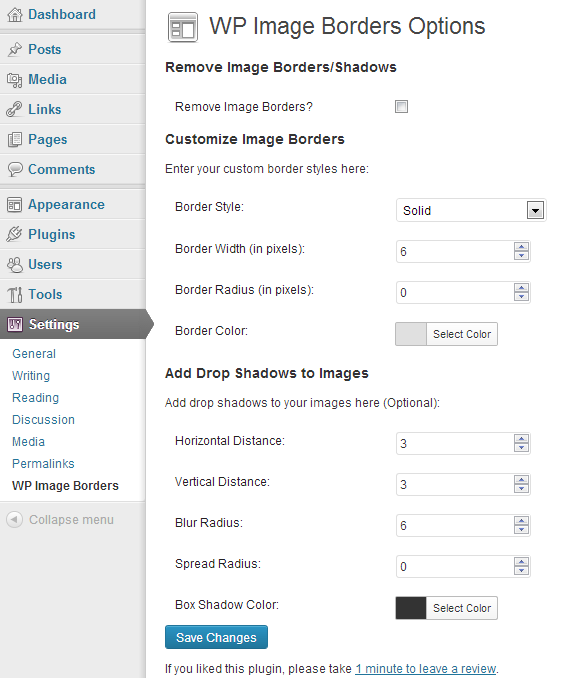
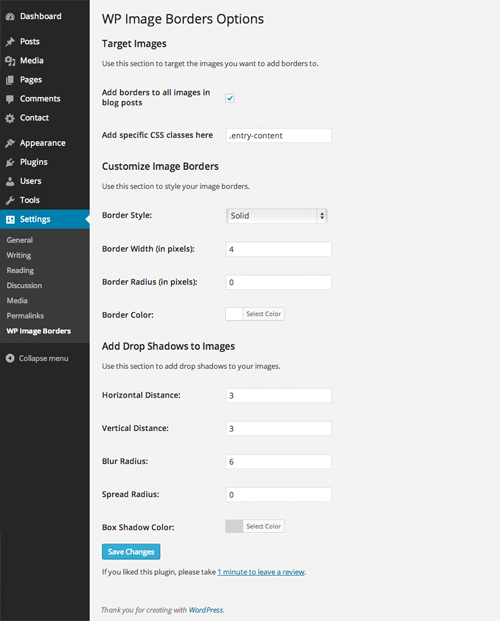
committing v1.5
git-svn-id: https://plugins.svn.wordpress.org/wp-image-borders/trunk@887150 b8457f37-d9ea-0310-8a92-e5e31aec5664

diff --git a/wp-image-borders.php b/wp-image-borders.php
@@ -8,7 +8,7 @@ Author URI: http://profiles.wordpress.org/bensibley
 License: GPLv2
 */
 
-/* Copyright 2013 Ben Sibley (email: bens233@gmail.com)
+/* Copyright 2013 Ben Sibley (email: ben@competethemes.com)
 
     This program is free software; you can redistribute it and/or modify
     it under the terms of the GNU General Public License as published by
@@ -25,11 +25,15 @@ License: GPLv2
     Foundation, Inc., 59 Temple Place, Suite 330, Boston, MA  02111-1307  USA
 */
 
-function supportDashInit () {
-	require_once( plugin_dir_path(__FILE__) . 'supportdash.php');
-	new SupportDash("WP Image Borders", "0", "51f70736aa001e0200000001");
+// Add settings link on plugin page
+function bs_wib_settings_link($links) { 
+  $settings_link = '<a href="options-general.php?page=wp-image-borders.php">Settings</a>'; 
+  array_unshift($links, $settings_link); 
+  return $links; 
 }
-add_action('init', 'supportDashInit');
+
+$plugin = plugin_basename(__FILE__); 
+add_filter("plugin_action_links_$plugin", 'bs_wib_settings_link' );
 
 // Hook into admin_menu to build my submenu
 add_action('admin_menu', 'bs_wib_add_page');
@@ -57,20 +61,9 @@ function wp_image_borders_options() {
             <input class="button-primary" name="Submit" type="submit" value="<?php esc_attr_e( 'Save Changes' ); ?>" />
         </form>
         <!-- support dash link -->
-		<a data-sd-link="51f70736aa001e0200000001">Click for Customer Support</a>
         <p>If you liked this plugin, please take <a href="http://wordpress.org/support/view/plugin-reviews/wp-image-borders">1 minute to leave a review</a>.</p>
     </div><?php 
 }
-
-// Add settings link on plugin page
-function bs_wib_settings_link($links) { 
-  $settings_link = '<a href="options-general.php?page=wp-image-borders.php">Settings</a>'; 
-  array_unshift($links, $settings_link); 
-  return $links; 
-}
- 
-$plugin = plugin_basename(__FILE__); 
-add_filter("plugin_action_links_$plugin", 'bs_wib_settings_link' );
 
 // hook into the admin initialization
 add_action( 'admin_init', 'bs_wib_admin_init');
@@ -85,7 +78,7 @@ function bs_wib_admin_init() {
     // this section contains remove checkbox
     add_settings_section(
         'bs_wib_main', // string used in 'id' attribute of tags
-        'Remove Image Borders/Shadows', // title of the section
+        'Target Images', // title of the section
         'bs_wib_section_text', // callback that will echo content
         'wp-image-borders' // $page ($menu_slug used in add_options_page)
     );
@@ -103,11 +96,19 @@ function bs_wib_admin_init() {
         'bs_wib_shadow_section_text', // callback that will echo content
         'wp-image-borders' // $page ($menu_slug used in add_options_page)
     );
-    // this field contains the remove checkbox
+    // this field lets users add classes
     add_settings_field(
-        'bs_wib_checkbox', // string used for 'id' in attribute tags
-        'Remove Image Borders?', // Title of the field
-        'bs_wib_checkbox_display', // callback that creates the input field
+        'bs_wib_post_checkbox', // string used for 'id' in attribute tags
+        'Add borders to all images in blog posts', // Title of the field
+        'bs_wib_post_checkbox_display', // callback that creates the input field
+        'wp-image-borders', // $page ($menu_slug used in add_options_page)
+        'bs_wib_main' // the section the field is placed in (the id from add_settings_section above)
+    );
+    // this field lets users add classes
+    add_settings_field(
+        'bs_wib_classes', // string used for 'id' in attribute tags
+        'Add specific CSS classes here', // Title of the field
+        'bs_wib_classes_display', // callback that creates the input field
         'wp-image-borders', // $page ($menu_slug used in add_options_page)
         'bs_wib_main' // the section the field is placed in (the id from add_settings_section above)
     );
@@ -185,23 +186,32 @@ function bs_wib_admin_init() {
 
 // Adds text to remove borders section
 function bs_wib_section_text() {
-    echo '<p></p>';
+    echo '<p>Use this section to target the images you want to add borders to.</p>';
 }
 
 // Adds text to border styles section
 function bs_wib_borders_section_text() {
-    echo '<p>Enter your custom border styles here:</p>';
+    echo '<p>Use this section to style your image borders.</p>';
 }
 
 // Adds text to box shadow section
 function bs_wib_shadow_section_text() {
-    echo '<p>Add drop shadows to your images here (Optional):</p>';
+    echo '<p>Use this section to add drop shadows to your images.</p>';
 }
 
-// adds the checkbox with it set to be already checked
-function bs_wib_checkbox_display() {
+// adds checkbox to add borders to all images in post
+function bs_wib_post_checkbox_display() {
     $options = get_option( 'wp_image_borders_options' );
-    $html = '<input type="checkbox" id="bs_wib_checkbox" name="wp_image_borders_options[bs_wib_checkbox]" value="1"' . checked( 1, $options['bs_wib_checkbox'], false ) . '/>';  
+    if ( empty($options['bs_wib_post_checkbox']) ) {
+        $options['bs_wib_post_checkbox'] = 0;
+    }
+    $html = "<input type='checkbox' id='bs_wib_post_checkbox' name='wp_image_borders_options[bs_wib_post_checkbox]' value='1'" . checked( 1, $options['bs_wib_post_checkbox'], false ) . " />";
+    echo $html;
+}
+// adds text input for entering classes to add borders to
+function bs_wib_classes_display() {
+    $options = get_option( 'wp_image_borders_options' );
+    $html = "<input type='text' id='bs_wib_classes' name='wp_image_borders_options[bs_wib_classes]' value='{$options['bs_wib_classes']}' />";  
     echo $html;
 }
 
@@ -304,43 +314,99 @@ function bs_wib_box_shadow_color_display() {
     echo $html;
 }
 
-// ATTENTION: Validation will need to be added back to register_setting and then defined here
+// get the classes from the optional class input and return them in a comma delimited list with img selectors
+function bs_wib_get_classes() {
 
+    // access the plugin options
+	$options = get_option( 'wp_image_borders_options' );
 
-add_action( 'wp_head', 'bs_wib_remove_borders' );
+    // if the classes section exists
+	if($options['bs_wib_classes']) {
 
-// checks to see if the checkbox to remove borders is checked
-function bs_wib_remove_borders() {
-    $options = get_option( 'wp_image_borders_options' );
-    if ( 1 == $options['bs_wib_checkbox'] ) { 
-        // adds style to header to remove borders
-        echo '<style type="text/css" media="screen">.wib-img img { 
-           border: none !important; 
-           border-radius: 0px !important; 
-           -moz-box-shadow: 0 0 0 0 #fff !important; 
-           -webkit-box-shadow: 0 0 0 0 #fff !important; 
-           box-shadow: 0 0 0 0 #fff !important;
-           } </style>';
-    } else {
-        echo '<style type="text/css" media="screen">.wib-img img { 
-           border-style: ' . $options["bs_wib_border_style"] . ' !important; 
-           border-width: ' . $options["bs_wib_border_width"] . 'px !important; 
-           border-radius: ' . $options["bs_wib_border_radius"] . 'px !important;
-           border-color: ' . $options["bs_wib_border_color"] . ' !important; 
-           -moz-box-shadow: ' . $options["bs_wib_box_shadow_horizontal"] . 'px ' . $options["bs_wib_box_shadow_vertical"] . 'px ' . $options["bs_wib_box_shadow_blur"] . 'px ' . $options["bs_wib_box_shadow_spread"] . 'px ' . $options["bs_wib_box_shadow_color"] . ' !important; 
-           -webkit-box-shadow: ' . $options["bs_wib_box_shadow_horizontal"] . 'px ' . $options["bs_wib_box_shadow_vertical"] . 'px ' . $options["bs_wib_box_shadow_blur"] . 'px ' . $options["bs_wib_box_shadow_spread"] . 'px ' . $options["bs_wib_box_shadow_color"] . ' !important; 
-           box-shadow: ' . $options["bs_wib_box_shadow_horizontal"] . 'px ' . $options["bs_wib_box_shadow_vertical"] . 'px ' . $options["bs_wib_box_shadow_blur"] . 'px ' . $options["bs_wib_box_shadow_spread"] . 'px ' . $options["bs_wib_box_shadow_color"] . ' !important; 
-           } </style>';
+        // create a comma delimited list from the array
+		$classes = explode(",", $options['bs_wib_classes']);
+
+        // if the add to all post images box is checked, add the wp-image-borders class
+        if ( !empty($options['bs_wib_post_checkbox']) ) {
+            if ( 1 == $options['bs_wib_post_checkbox'] ) {
+                $classes[] = " .wp-image-borders";
+            }
+        }
+
+        // there were classes, add an 'img' selector after each
+		if($classes) {
+			foreach($classes as $class) {
+				$selectors[] = "$class img";
+			}
+		}
+		return $selectors;
+	}
+    // if there are not classes, but the checkbox is checked then return just the wp-image-borders selector
+    elseif ( !empty($options['bs_wib_post_checkbox']) ) {
+
+        if(1 == $options['bs_wib_post_checkbox'] ){
+            $selectors[] = ".wp-image-borders img";
+
+            return $selectors;
+        }
     }
 }
 
-// Applies filter to add 'wib-img' class to all pages
-        add_filter('post_class', 'bs_wib_class');
-        // creates 'wib-img' class
-        function bs_wib_class($classes) {
-        $classes[] = 'wib-img';
-        return $classes;
+// add the wp-image-borders class to the post container if the post_checkbox is checked
+function bs_wib_add_post_class($classes) {
+    // access the plugin options
+    $options = get_option( 'wp_image_borders_options' );
+
+    // if the checkbox is not empty and is checked, add the wp-image-borders class
+    if ( !empty($options['bs_wib_post_checkbox']) ) {
+        if ( 1 == $options['bs_wib_post_checkbox'] ) {
+            $classes[] = "wp-image-borders";
         }
+    }
+    return $classes;
+}
+add_filter('post_class', 'bs_wib_add_post_class');
+
+function bs_wib_output_styles() {
+
+    // access plugin options
+    $options = get_option( 'wp_image_borders_options' );
+
+    // get the classes from the function that created a comma delimited list and added 'img' selectors
+	$selectors = bs_wib_get_classes();
+    // create $css variable
+    $css = '';
+
+    // if there are any selectors available...
+	if($selectors) {
+
+        // get the number of selectors available
+		$class_count = count($selectors);
+
+        // output each class with a comma except for the last (no comma)
+		for ( $counter = 0; $counter < $class_count; $counter += 1) {
+			if($class_count > $counter + 1) {
+				$css .= "$selectors[$counter],";
+			} else {
+				$css .= $selectors[$counter];
+			}
+		}
+        // append the user-generated styles to the class selectors
+		$css .= ' { 
+			   border-style: ' . $options["bs_wib_border_style"] . ' !important; 
+			   border-width: ' . $options["bs_wib_border_width"] . 'px !important; 
+			   border-radius: ' . $options["bs_wib_border_radius"] . 'px !important;
+			   border-color: ' . $options["bs_wib_border_color"] . ' !important; 
+			   -moz-box-shadow: ' . $options["bs_wib_box_shadow_horizontal"] . 'px ' . $options["bs_wib_box_shadow_vertical"] . 'px ' . $options["bs_wib_box_shadow_blur"] . 'px ' . $options["bs_wib_box_shadow_spread"] . 'px ' . $options["bs_wib_box_shadow_color"] . ' !important; 
+			   -webkit-box-shadow: ' . $options["bs_wib_box_shadow_horizontal"] . 'px ' . $options["bs_wib_box_shadow_vertical"] . 'px ' . $options["bs_wib_box_shadow_blur"] . 'px ' . $options["bs_wib_box_shadow_spread"] . 'px ' . $options["bs_wib_box_shadow_color"] . ' !important; 
+			   box-shadow: ' . $options["bs_wib_box_shadow_horizontal"] . 'px ' . $options["bs_wib_box_shadow_vertical"] . 'px ' . $options["bs_wib_box_shadow_blur"] . 'px ' . $options["bs_wib_box_shadow_spread"] . 'px ' . $options["bs_wib_box_shadow_color"] . ' !important; 
+			   }';
+			   
+    	wp_add_inline_style('style',$css);
+    }
+}
+
+add_action('wp_enqueue_scripts','bs_wib_output_styles');
 
 // sanitizes the inputs from the options pages and outputs clean data
 // ONLY does one checkbox right now
